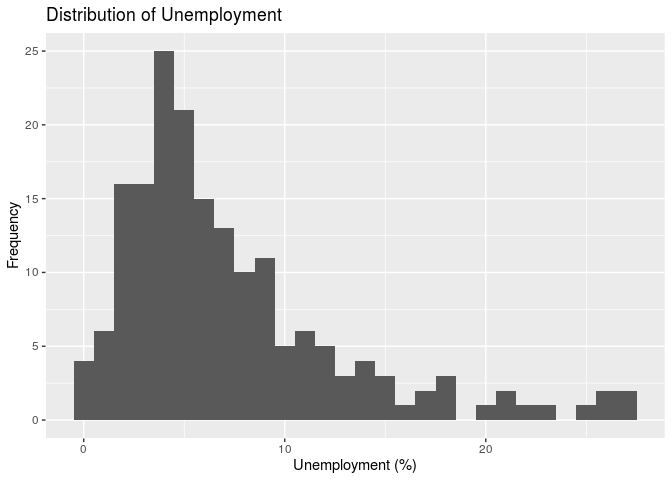
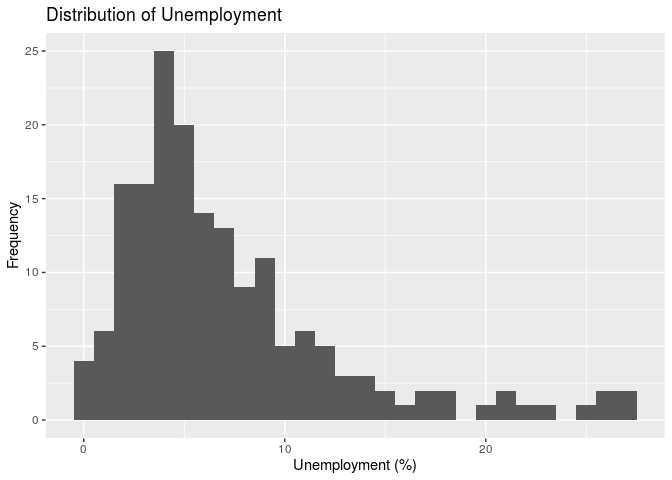
Added EDA for response variable

diff --git a/01-proposal/proposal.md b/01-proposal/proposal.md
@@ -1,4 +1,4 @@
-What makes a country economically great
+What makes a country economically great?
 ================
 Rtists
 2019/10/26
@@ -74,7 +74,7 @@ economic indicators correlate to GDP, it could provide policy makers and
 economists with a path towards sound governmental decisions.
 
 We hypothesize that out of the predictors in our dataset,
-“GovInterference” and both measures of TaxRate will have a very strong
+`GovInterference` and both measures of `TaxRate` will have a very strong
 correlation with the GDP of the country, because they both reflect not
 only the government’s economic policy but often times the government’s
 approach to the macroecononmy. We predict that as government
@@ -118,17 +118,61 @@ organization that provides information and data about the economic
 health of countries and is used by policy makers to motivate their
 economic policy decisions.
 
+Before looking at each of the predictor variables, we would like to
+ensure that the data is cleaned and error-free. We will remove
+observations that have missing information, such as countries like Iraq,
+Syria, North Korea, and others that have very little outside
+involvement. Additionally, we would like to remove the `GDPperCap`
+variable from the dataset, as it is simply the GDP divided by the
+population, both values we have as separate variables in the dataset, as
+to prevent potential future issues of multicolinearity.
+
+``` r
+economic_data <- na.omit(economic_data)
+economic_data$GDPperCap = NULL
+```
+
+Now that our data set is ready to explore, let’s begin by looking at the
+distribution of GDP’s of countries in our data set.
+
+``` r
+ggplot(data = economic_data, mapping = aes(x = GDP)) +
+  geom_histogram(binwidth = 1000) +
+  labs(x = "GDP (billions of USD)",
+       y = "Frequency",
+       title = "Distribution of GDPs")
+```
+
+![](proposal_files/figure-gfm/gdp-vis-1.png)<!-- -->
+
+Clearly, there is incredible right skew in the data, which is reasonable
+as the world has countries such as the US and China with significantly
+greater GDP’s than the average country. This calls for a log-transform
+of the response variable, whose distribution is visualized below:
+
+``` r
+ggplot(data = economic_data, mapping = aes(x = log(GDP))) +
+  geom_histogram(binwidth = 1) +
+  labs(x = "log(GDP)",
+       y = "Frequency",
+       title = "Distribution of log-GDPs")
+```
+
+![](proposal_files/figure-gfm/log-gdp-vis-1.png)<!-- -->
+
+This distribution looks much more normal, and as a result, as we begin
+our analysis, we will likely use this as our response variable.
+
+We will now look at each of the 12 predictor variables that we will use
+to predict GDP, starting with `TaxBurden`.
+
 ``` r
 ggplot(data = economic_data, mapping = aes(x = TaxBurden)) +
-  geom_histogram() + 
+  geom_histogram(binwidth = 2) + 
   labs(x = "Tax Burden (% of Country's GDP)",
        y = "Frequency",
        title = "Distribution of Tax Burden")
 ```
-
-    ## `stat_bin()` using `bins = 30`. Pick better value with `binwidth`.
-
-    ## Warning: Removed 7 rows containing non-finite values (stat_bin).
 
 ![](proposal_files/figure-gfm/Tax%20Burden-1.png)<!-- -->
 
@@ -139,25 +183,14 @@ skim()
 ```
 
     ## Skim summary statistics
-    ##  n obs: 185 
+    ##  n obs: 173 
     ##  n variables: 1 
     ## 
     ## ── Variable type:numeric ─────────────────────────────────────────────────────────────────────────────────────────────────────────────
-    ##   variable missing complete   n  mean    sd  p0   p25   p50   p75 p100
-    ##  TaxBurden       7      178 185 22.19 10.17 1.6 14.12 20.75 30.02   47
+    ##   variable missing complete   n  mean    sd  p0 p25  p50  p75 p100
+    ##  TaxBurden       0      173 173 22.19 10.25 1.6  14 20.7 30.2   47
     ##      hist
     ##  ▂▅▇▆▅▅▂▂
-
-``` r
-ggplot(data = economic_data %>% filter(Country != "Libya"), mapping = aes(x = log(GDP))) +
-  geom_histogram()
-```
-
-    ## `stat_bin()` using `bins = 30`. Pick better value with `binwidth`.
-
-    ## Warning: Removed 3 rows containing non-finite values (stat_bin).
-
-![](proposal_files/figure-gfm/Tax%20Burden-2.png)<!-- -->
 
 The distribution of tax burden is unimodal and only slightly right
 skewed. The mode is around 14-15%. In general, the tax burden across
@@ -172,8 +205,6 @@ ggplot(data = economic_data, mapping = aes(x = GovSpending)) +
        title = "Distribution of Government Spending")
 ```
 
-    ## Warning: Removed 4 rows containing non-finite values (stat_bin).
-
 ![](proposal_files/figure-gfm/Government%20Spending-1.png)<!-- -->
 
 ``` r
@@ -183,14 +214,14 @@ skim()
 ```
 
     ## Skim summary statistics
-    ##  n obs: 185 
+    ##  n obs: 173 
     ##  n variables: 1 
     ## 
     ## ── Variable type:numeric ─────────────────────────────────────────────────────────────────────────────────────────────────────────────
-    ##     variable missing complete   n  mean    sd   p0  p25  p50  p75  p100
-    ##  GovSpending       4      181 185 33.87 15.52 10.6 24.5 32.3 40.3 139.2
+    ##     variable missing complete   n mean    sd   p0  p25  p50  p75 p100
+    ##  GovSpending       0      173 173 32.2 10.67 10.6 23.6 31.6 39.8 64.2
     ##      hist
-    ##  ▅▇▂▁▁▁▁▁
+    ##  ▂▇▇▇▇▃▁▁
 
 The distribution of government spending is generally symmmetric and
 unimodal. There are several outliers which have significantly higher
@@ -208,8 +239,6 @@ ggplot(data = economic_data, mapping = aes(x = Population)) +
        title = "Distribution of Population")
 ```
 
-    ## Warning: Removed 1 rows containing non-finite values (stat_bin).
-
 ![](proposal_files/figure-gfm/Population-1.png)<!-- -->
 
 ``` r
@@ -219,12 +248,12 @@ skim()
 ```
 
     ## Skim summary statistics
-    ##  n obs: 185 
+    ##  n obs: 173 
     ##  n variables: 1 
     ## 
     ## ── Variable type:numeric ─────────────────────────────────────────────────────────────────────────────────────────────────────────────
-    ##    variable missing complete   n  mean     sd  p0  p25  p50   p75   p100
-    ##  Population       1      184 185 40.37 145.52 0.1 2.77 9.15 29.62 1390.1
+    ##    variable missing complete   n  mean     sd  p0 p25 p50  p75   p100
+    ##  Population       0      173 173 42.16 149.89 0.1 2.9 9.5 31.4 1390.1
     ##      hist
     ##  ▇▁▁▁▁▁▁▁
 
@@ -252,12 +281,12 @@ skim()
 ```
 
     ## Skim summary statistics
-    ##  n obs: 185 
+    ##  n obs: 173 
     ##  n variables: 1 
     ## 
     ## ── Variable type:numeric ─────────────────────────────────────────────────────────────────────────────────────────────────────────────
-    ##    variable missing complete   n  mean     sd  p0  p25  p50   p75   p100
-    ##  Population       1      184 185 40.37 145.52 0.1 2.77 9.15 29.62 1390.1
+    ##    variable missing complete   n  mean     sd  p0 p25 p50  p75   p100
+    ##  Population       0      173 173 42.16 149.89 0.1 2.9 9.5 31.4 1390.1
     ##      hist
     ##  ▇▁▁▁▁▁▁▁
 
@@ -274,8 +303,6 @@ ggplot(data = economic_data, mapping = aes(x = Unemployment)) +
        title = "Distribution of Unemployment")
 ```
 
-    ## Warning: Removed 6 rows containing non-finite values (stat_bin).
-
 ![](proposal_files/figure-gfm/Unemployment-1.png)<!-- -->
 
 ``` r
@@ -285,14 +312,12 @@ skim()
 ```
 
     ## Skim summary statistics
-    ##  n obs: 185 
+    ##  n obs: 173 
     ##  n variables: 1 
     ## 
     ## ── Variable type:numeric ─────────────────────────────────────────────────────────────────────────────────────────────────────────────
-    ##      variable missing complete   n mean   sd  p0  p25 p50  p75 p100
-    ##  Unemployment       6      179 185 7.39 5.68 0.1 3.75 5.7 9.35 27.3
-    ##      hist
-    ##  ▅▇▅▂▁▁▁▁
+    ##      variable missing complete   n mean   sd  p0 p25 p50 p75 p100     hist
+    ##  Unemployment       0      173 173 7.27 5.67 0.1 3.7 5.5 9.3 27.3 ▆▇▅▂▁▁▁▁
 
 The distribution of unemployment is unimodal and right-skewed. The mode
 of the distribution is around 4-5%. Since the median and IQR are more
@@ -308,8 +333,6 @@ ggplot(data = economic_data, mapping = aes(x = Inflation)) +
 ```
 
     ## `stat_bin()` using `bins = 30`. Pick better value with `binwidth`.
-
-    ## Warning: Removed 4 rows containing non-finite values (stat_bin).
 
 ![](proposal_files/figure-gfm/Inflation-1.png)<!-- -->
 
@@ -331,12 +354,12 @@ skim()
 ```
 
     ## Skim summary statistics
-    ##  n obs: 185 
+    ##  n obs: 173 
     ##  n variables: 1 
     ## 
     ## ── Variable type:numeric ─────────────────────────────────────────────────────────────────────────────────────────────────────────────
     ##   variable missing complete   n  mean    sd   p0 p25 p50 p75   p100
-    ##  Inflation       4      181 185 10.61 80.73 -0.9 1.3 2.7 5.3 1087.5
+    ##  Inflation       0      173 173 10.87 82.56 -0.9 1.3 2.8 5.5 1087.5
     ##      hist
     ##  ▇▁▁▁▁▁▁▁
 
@@ -355,11 +378,11 @@ aggregate(cbind(count = Region) ~ Region, data = economic_data, FUN = function(x
 ```
 
     ##                         Region count
-    ## 1                     Americas    32
-    ## 2                 Asia-Pacific    43
-    ## 3                       Europe    45
-    ## 4 Middle East and North Africa    18
-    ## 5           Sub-Saharan Africa    47
+    ## 1                     Americas    31
+    ## 2                 Asia-Pacific    40
+    ## 3                       Europe    43
+    ## 4 Middle East and North Africa    14
+    ## 5           Sub-Saharan Africa    45
 
 ``` r
 regional = data.frame("Region" = c("Americas","Asia-Pacific","Europe","Middle East and North Africa","Sub-Saharan Africa"), "share" = c(32, 43, 45, 18, 47), "prop"=c(17.4,23.2, 24.3, 9.7, 25.4))
@@ -423,8 +446,6 @@ labs(title = "Histogram of Tariff Rate", x  = "Tariff Rate", y = "Frequency")
 
     ## `stat_bin()` using `bins = 30`. Pick better value with `binwidth`.
 
-    ## Warning: Removed 4 rows containing non-finite values (stat_bin).
-
 ![](proposal_files/figure-gfm/Tariff%20Rate-1.png)<!-- -->
 
 ``` r
@@ -434,12 +455,12 @@ skim()
 ```
 
     ## Skim summary statistics
-    ##  n obs: 185 
+    ##  n obs: 173 
     ##  n variables: 1 
     ## 
     ## ── Variable type:numeric ─────────────────────────────────────────────────────────────────────────────────────────────────────────────
-    ##    variable missing complete   n mean   sd p0 p25 p50 p75 p100     hist
-    ##  TariffRate       4      181 185 5.96 5.54  0   2 4.3 8.7   50 ▇▃▁▁▁▁▁▁
+    ##    variable missing complete   n mean  sd p0 p25 p50 p75 p100     hist
+    ##  TariffRate       0      173 173 5.61 4.4  0   2 4.2 8.7 18.6 ▇▅▃▃▃▁▁▁
 
 The distribution of tariff rate is generally right skewed and unimodal.
 There are several outlier economies with 50% tariff rate such as Central
@@ -455,8 +476,6 @@ labs(title = "Histogram of Income Tax Rate", x  = "Income Tax Rate", y = "Freque
 
     ## `stat_bin()` using `bins = 30`. Pick better value with `binwidth`.
 
-    ## Warning: Removed 3 rows containing non-finite values (stat_bin).
-
 ![](proposal_files/figure-gfm/Income%20Tax%20Rate-1.png)<!-- -->
 
 ``` r
@@ -466,14 +485,14 @@ skim()
 ```
 
     ## Skim summary statistics
-    ##  n obs: 185 
+    ##  n obs: 173 
     ##  n variables: 1 
     ## 
     ## ── Variable type:numeric ─────────────────────────────────────────────────────────────────────────────────────────────────────────────
-    ##       variable missing complete   n  mean   sd p0 p25 p50 p75 p100
-    ##  IncomeTaxRate       3      182 185 28.23 13.4  0  20  30  35   60
+    ##       variable missing complete   n  mean    sd p0 p25 p50 p75 p100
+    ##  IncomeTaxRate       0      173 173 28.78 13.32  0  20  30  35   60
     ##      hist
-    ##  ▂▆▃▇▇▅▂▁
+    ##  ▂▅▂▇▇▅▂▁
 
 The distribution of income tax rate is unimodal and generally symmetric.
 While its general shape resembles a normal distribution, there are
@@ -491,8 +510,6 @@ labs(title = "Histogram of Corporate Tax Rate", x  = "Corporate Tax Rate", y = "
 
     ## `stat_bin()` using `bins = 30`. Pick better value with `binwidth`.
 
-    ## Warning: Removed 3 rows containing non-finite values (stat_bin).
-
 ![](proposal_files/figure-gfm/Corporate%20Tax%20Rate-1.png)<!-- -->
 
 ``` r
@@ -502,12 +519,12 @@ skim()
 ```
 
     ## Skim summary statistics
-    ##  n obs: 185 
+    ##  n obs: 173 
     ##  n variables: 1 
     ## 
     ## ── Variable type:numeric ─────────────────────────────────────────────────────────────────────────────────────────────────────────────
     ##          variable missing complete   n  mean   sd p0 p25 p50 p75 p100
-    ##  CorporateTaxRate       3      182 185 23.89 8.88  0  20  25  30   50
+    ##  CorporateTaxRate       0      173 173 23.95 8.89  0  20  25  30   50
     ##      hist
     ##  ▁▂▂▇▆▂▁▁
 
@@ -525,8 +542,6 @@ ggplot(data = economic_data, mapping = aes(x = PublicDebt)) +
        title = "Distribution of Public Debt")
 ```
 
-    ## Warning: Removed 4 rows containing non-finite values (stat_bin).
-
 ![](proposal_files/figure-gfm/Public%20Debt-1.png)<!-- -->
 
 ``` r
@@ -536,12 +551,12 @@ skim()
 ```
 
     ## Skim summary statistics
-    ##  n obs: 185 
+    ##  n obs: 173 
     ##  n variables: 1 
     ## 
     ## ── Variable type:numeric ─────────────────────────────────────────────────────────────────────────────────────────────────────────────
     ##    variable missing complete   n  mean   sd p0  p25  p50  p75  p100
-    ##  PublicDebt       4      181 185 56.32 34.2  0 34.9 49.4 69.9 236.4
+    ##  PublicDebt       0      173 173 56.46 33.8  0 35.2 49.4 69.9 236.4
     ##      hist
     ##  ▃▇▃▂▁▁▁▁
 
@@ -612,8 +627,6 @@ ggplot(data = temp, mapping = aes(x = TaxBurden, y = GDP)) +
        y = "Frequency",
        title = "Distribution of Tax Burden")
 ```
-
-    ## Warning: Removed 4 rows containing missing values (geom_point).
 
 ![](proposal_files/figure-gfm/scatterplot%20matrix%20GDP%20growth-5.png)<!-- -->
 
